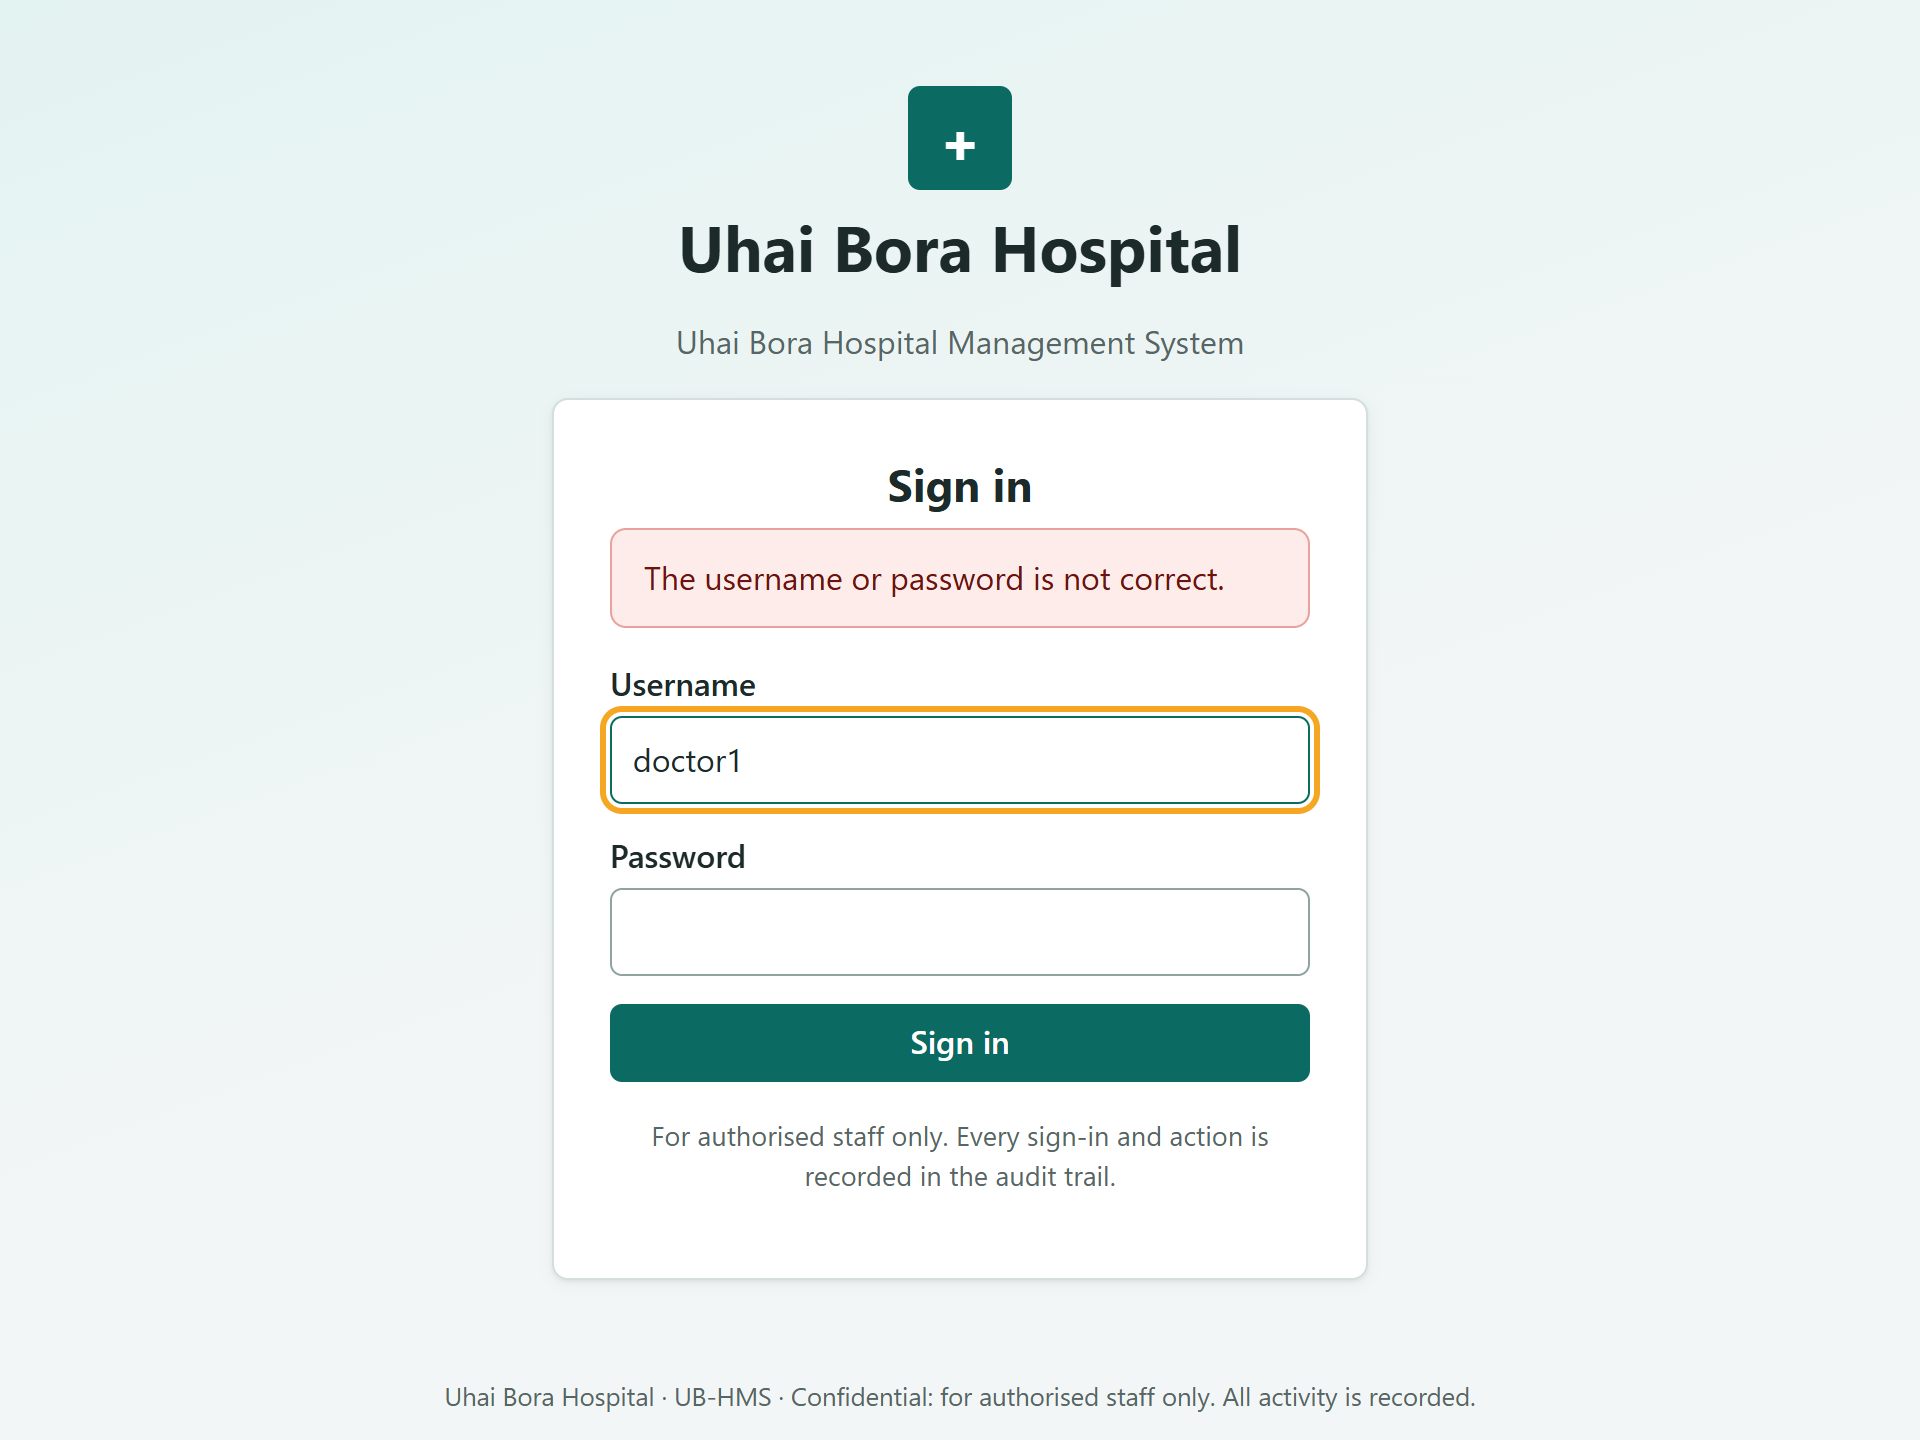
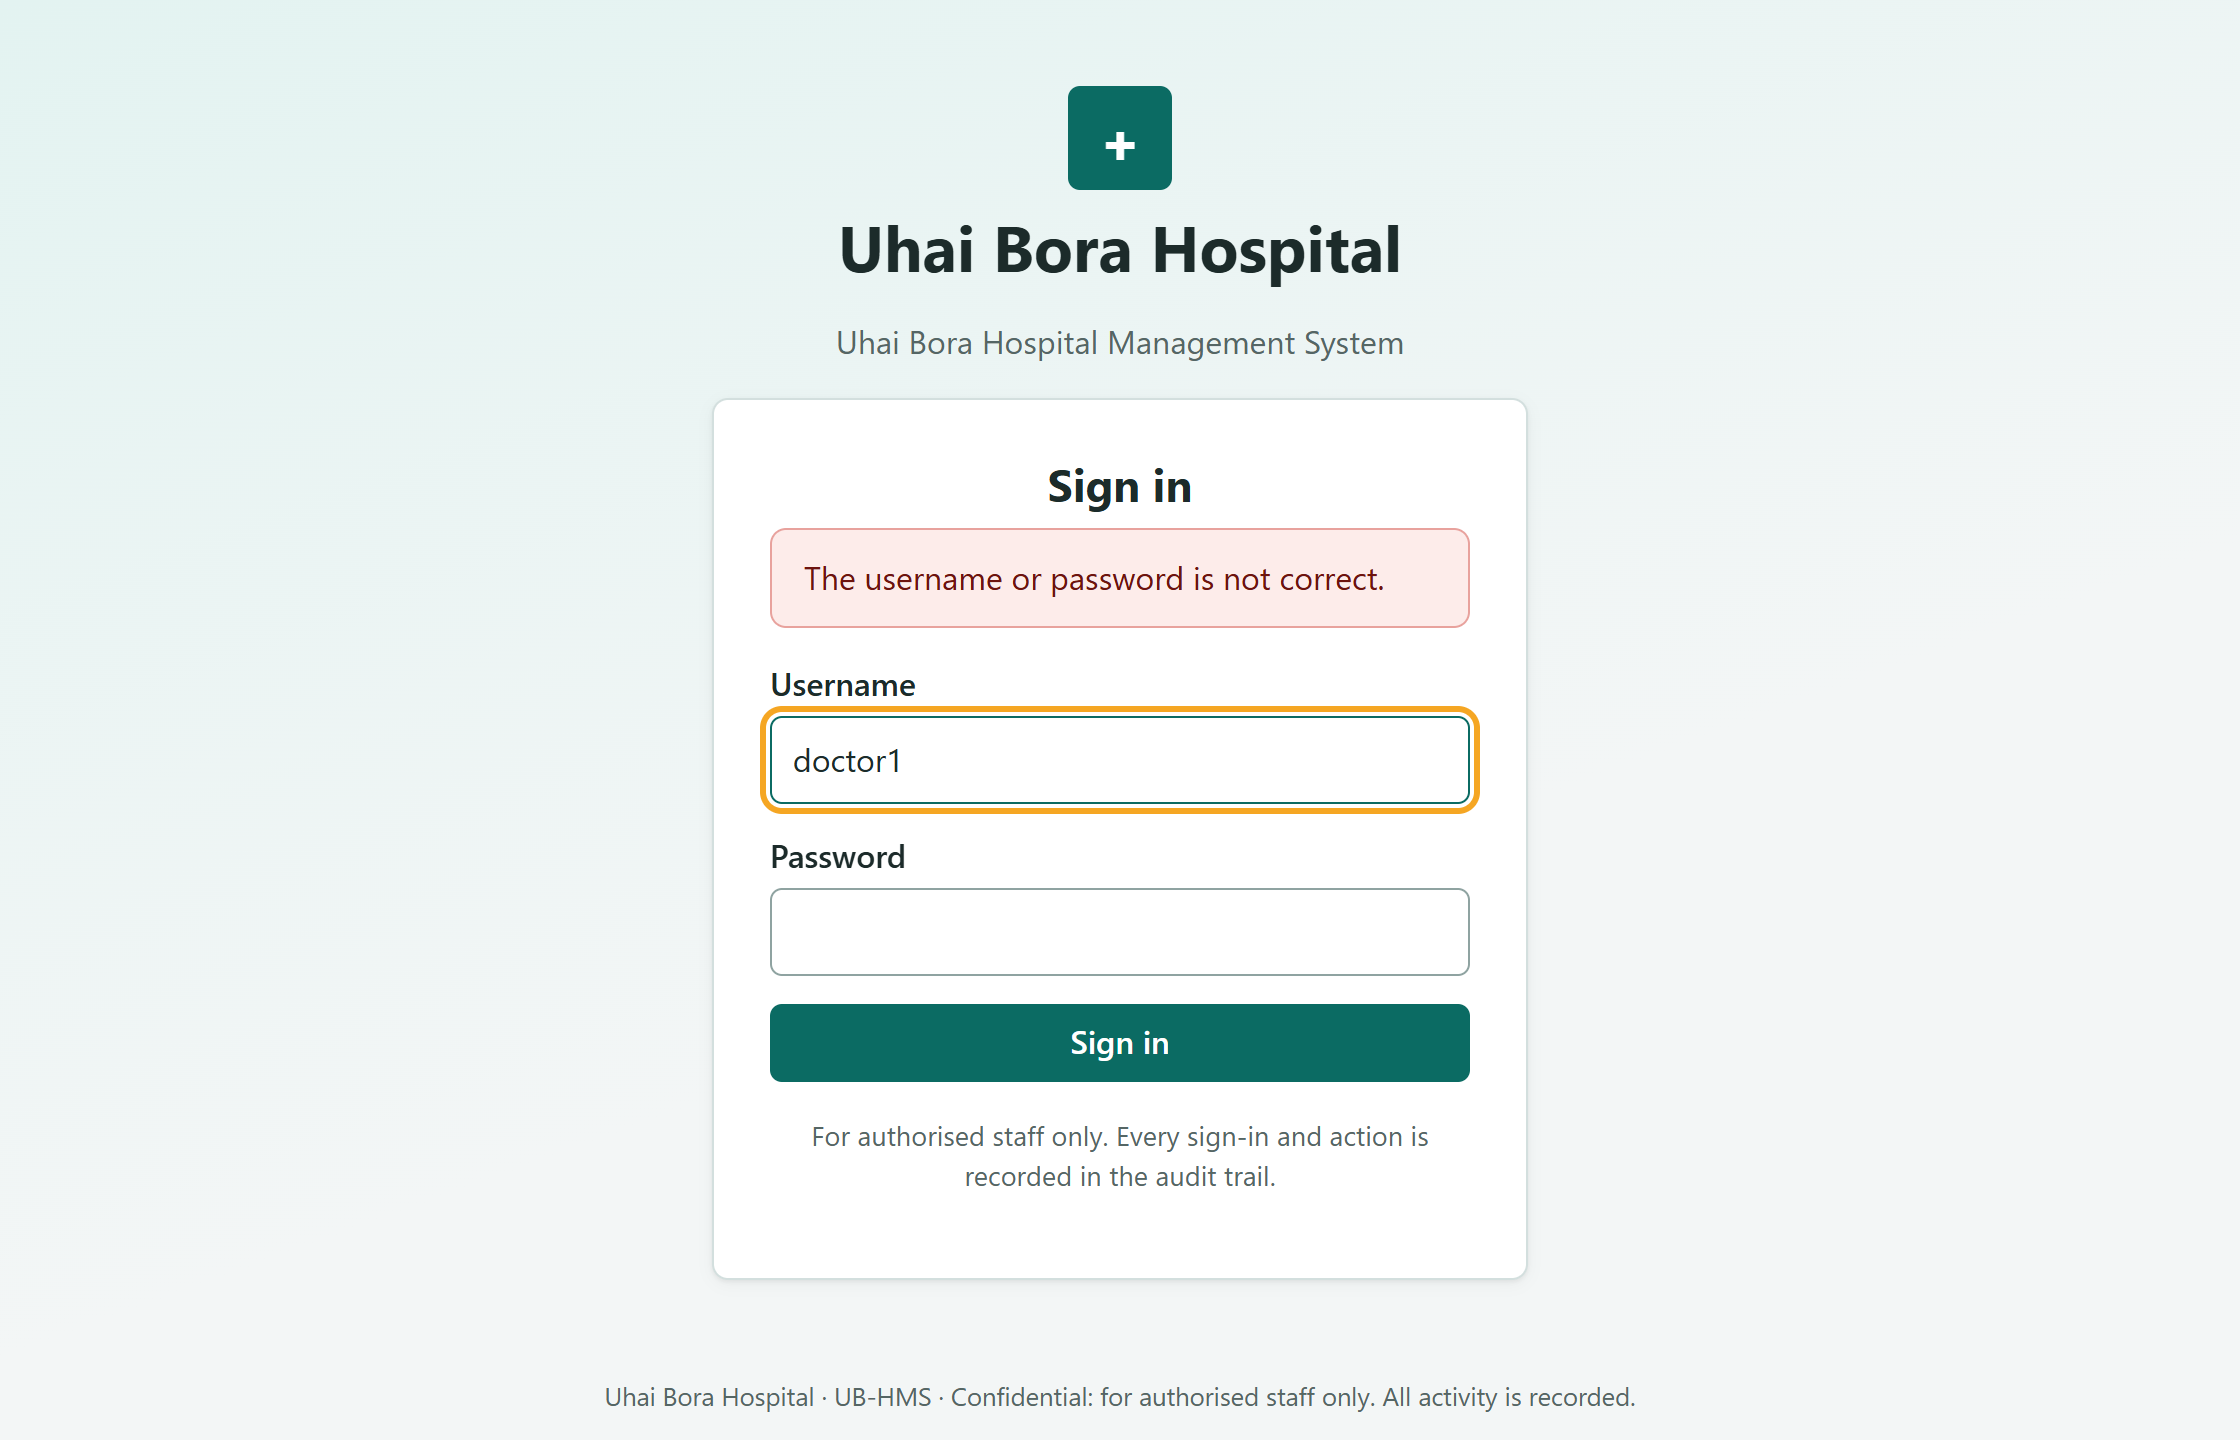
Tidy table layout for narrow screens and add documentation screenshots
Tighter table spacing, non-breaking OP numbers, dates and amounts, wrapping user action buttons.
Screenshot script retaken: 56 screenshots of every role against synthetic demo data.

diff --git a/assets/css/app.css b/assets/css/app.css
@@ -99,11 +99,12 @@ a:hover { color: var(--brand-dark); }
 /* Tables */
 .table-wrap { overflow-x: auto; background: var(--white); border: 1px solid var(--line); border-radius: var(--radius); box-shadow: var(--shadow); margin-bottom: 1rem; }
 table.data { width: 100%; border-collapse: collapse; }
-table.data th, table.data td { padding: .6rem .8rem; text-align: left; border-bottom: 1px solid var(--line); vertical-align: top; }
-table.data th { background: #eaf1f0; font-size: .85rem; text-transform: uppercase; letter-spacing: .03em; color: var(--brand-dark); white-space: nowrap; }
+table.data th, table.data td { padding: .5rem .6rem; text-align: left; border-bottom: 1px solid var(--line); vertical-align: top; }
+table.data td { font-size: .92rem; }
+table.data th { background: #eaf1f0; font-size: .8rem; text-transform: uppercase; letter-spacing: .02em; color: var(--brand-dark); white-space: nowrap; }
 table.data tbody tr:hover { background: #f8fbfb; }
 table.data tfoot td { font-weight: 700; background: #f1f6f6; }
-table.data td.num, table.data th.num { text-align: right; font-variant-numeric: tabular-nums; }
+table.data td.num, table.data th.num { white-space: nowrap; text-align: right; font-variant-numeric: tabular-nums; }
 .empty { padding: 1.5rem; text-align: center; color: var(--muted); }
 
 /* Forms */
@@ -151,7 +152,7 @@ dl.kv { display: grid; grid-template-columns: max-content 1fr; gap: .35rem 1.25r
 dl.kv dt { color: var(--muted); font-weight: 600; }
 dl.kv dd { margin: 0; }
 .record-head { display: flex; flex-wrap: wrap; align-items: baseline; gap: .5rem 1rem; }
-.op-number { font-family: Consolas, "Courier New", monospace; background: var(--brand-light); color: var(--brand-dark); padding: .1rem .5rem; border-radius: 4px; font-weight: 700; }
+.op-number { white-space: nowrap; font-family: Consolas, "Courier New", monospace; background: var(--brand-light); color: var(--brand-dark); padding: .1rem .5rem; border-radius: 4px; font-weight: 700; }
 .allergy { background: var(--danger-bg); border: 1px solid #e8a29d; color: #6d130e; padding: .5rem .75rem; border-radius: var(--radius); margin-bottom: 1rem; }
 .timeline { list-style: none; margin: 0; padding: 0; }
 .timeline li { border-left: 3px solid var(--brand); padding: .15rem 0 .85rem 1rem; position: relative; }

diff --git a/docs/build/take_screenshots.py b/docs/build/take_screenshots.py
@@ -44,7 +44,7 @@ class Shooter:
         self.n = 0
         self.log = []
 
-    def context(self, width=960, height=720, mobile=False):
+    def context(self, width=1120, height=720, mobile=False):
         return self.browser.new_context(viewport={'width': width, 'height': height}, device_scale_factor=2, locale='en-GB',
                                         timezone_id='Africa/Nairobi', is_mobile=mobile)
 
@@ -68,7 +68,7 @@ class Shooter:
         page.goto(BASE + '/login.php')
         page.fill('#username', user)
         page.fill('#password', pw)
-        page.click('button[type=submit]')
+        page.click('#main button[type=submit]')
         page.wait_for_load_state('networkidle')
 
 
@@ -108,12 +108,12 @@ def main():
                 pg.fill('#f_current_password', ADMIN_PW_OLD)
                 pg.fill('#f_new_password', 'weak')
                 pg.fill('#f_confirm_password', 'weak')
-                pg.click('button[type=submit]')
+                pg.click('#main button[type=submit]')
                 s.shot(pg, '04-password-weak')
                 pg.fill('#f_current_password', ADMIN_PW_OLD)
                 pg.fill('#f_new_password', ADMIN_PW_NEW)
                 pg.fill('#f_confirm_password', ADMIN_PW_NEW)
-                pg.click('button[type=submit]')
+                pg.click('#main button[type=submit]')
                 pg.wait_for_load_state('networkidle')
             else:
                 s.login(pg, ADMIN_USER, ADMIN_PW_NEW)
@@ -132,7 +132,7 @@ def main():
             s.shot(pg, '11-reception-dashboard', full=True)
             pg.goto(BASE + '/patients/index.php?q=' + info['patient_last']); s.shot(pg, '12-patient-search', full=True, max_height=1000)
             pg.goto(BASE + '/patients/register.php'); s.shot(pg, '13-patient-register', full=True)
-            pg.click('button[type=submit]'); pg.wait_for_load_state('networkidle'); s.shot(pg, '14-patient-register-errors', full=True, max_height=1500)
+            pg.click('#main button[type=submit]'); pg.wait_for_load_state('networkidle'); s.shot(pg, '14-patient-register-errors', full=True, max_height=1500)
             pg.goto(BASE + '/patients/view.php?id=' + str(info['patient_id'])); s.shot(pg, '15-patient-record-reception', full=True, max_height=1500)
             pg.goto(BASE + '/appointments/index.php?date=' + date.today().isoformat() + '&doctor_id='); s.shot(pg, '16-appointment-diary', full=True, max_height=1400)
             pg.goto(BASE + f'/appointments/book.php?patient_id={info["patient_id"]}&doctor_id={info["doctor1"]}&date={next_workday(1)}'); s.shot(pg, '17-book-appointment', full=True, max_height=1700)
@@ -150,7 +150,7 @@ def main():
             pg.goto(BASE + '/visits/queue.php?stage=triage'); s.shot(pg, '23-triage-queue', full=True, max_height=1100)
             pg.goto(BASE + '/visits/triage.php?visit=' + str(info['triage_visit']))
             pg.fill('#f_temperature', '60'); pg.fill('#f_pulse', '5')
-            pg.click('form[method=post] button[type=submit]'); pg.wait_for_load_state('networkidle')
+            pg.click('#main form[method=post] button[type=submit]'); pg.wait_for_load_state('networkidle')
             s.shot(pg, '24-triage-errors', full=True, max_height=1500)
             pg.goto(BASE + '/visits/triage.php?visit=' + str(info['triage_visit'])); s.shot(pg, '25-triage-form', full=True, max_height=1500)
             ctx.close()
@@ -164,7 +164,7 @@ def main():
             pg.goto(BASE + '/visits/consult.php?visit=' + str(info['orders_visit'])); s.shot(pg, '28-consult-top', full=True, max_height=1500)
             pg.evaluate("document.querySelector('.card h2').scrollIntoView()")
             h = pg.evaluate("[...document.querySelectorAll('h2')].find(e => e.textContent.trim() === 'Laboratory tests').getBoundingClientRect().top + window.scrollY")
-            pg.evaluate(f'window.scrollTo(0, {h - 20})'); s.shot(pg, '29-consult-orders')
+            pg.evaluate(f'window.scrollTo(0, {h - 80})'); s.shot(pg, '29-consult-orders')
             pg.goto(BASE + '/patients/view.php?id=' + str(info['patient_id'])); s.shot(pg, '30-patient-record-doctor', full=True, max_height=1700)
             pg.goto(BASE + '/lab/results.php'); s.shot(pg, '31-my-test-results', full=True, max_height=1400)
             pg.goto(BASE + '/visits/consult.php?visit=' + str(info['result_visit'])); s.shot(pg, '32-consult-with-result', full=True, max_height=2200)
@@ -211,7 +211,7 @@ def main():
             ctx.close()
 
             # ---------- manager ----------
-            ctx = s.context()
+            ctx = s.context(width=1280)
             pg = ctx.new_page()
             s.login(pg, 'manager1', DEMO_PW)
             s.shot(pg, '50-manager-dashboard', full=True, max_height=1800)

diff --git a/reports/attendance.php b/reports/attendance.php
@@ -33,7 +33,7 @@ page_start('Attendance report', 'r-attendance');
     <tbody>
     <?php foreach ($r['days'] as $d): ?>
         <?php if ($d['booked'] + $d['attended'] + $d['missed'] + $d['cancelled'] + $d['visits'] + $d['new_patients'] === 0) { continue; } ?>
-        <tr><td><?= e(fmt_date($d['date'])) ?></td><td class="num"><?= $d['booked'] ?></td><td class="num"><?= $d['attended'] ?></td><td class="num"><?= $d['missed'] ?></td><td class="num"><?= $d['cancelled'] ?></td><td class="num"><?= $d['walkins'] ?></td><td class="num"><?= $d['visits'] ?></td><td class="num"><?= $d['new_patients'] ?></td></tr>
+        <tr><td class="nowrap"><?= e(fmt_date($d['date'])) ?></td><td class="num"><?= $d['booked'] ?></td><td class="num"><?= $d['attended'] ?></td><td class="num"><?= $d['missed'] ?></td><td class="num"><?= $d['cancelled'] ?></td><td class="num"><?= $d['walkins'] ?></td><td class="num"><?= $d['visits'] ?></td><td class="num"><?= $d['new_patients'] ?></td></tr>
     <?php endforeach; ?>
     </tbody>
     <tfoot><tr><td>Total</td><td class="num"><?= $r['totals']['booked'] ?></td><td class="num"><?= $r['totals']['attended'] ?></td><td class="num"><?= $r['totals']['missed'] ?></td><td class="num"><?= $r['totals']['cancelled'] ?></td><td class="num"><?= $r['totals']['walkins'] ?></td><td class="num"><?= $r['totals']['visits'] ?></td><td class="num"><?= $r['totals']['new_patients'] ?></td></tr></tfoot>

diff --git a/reports/stock.php b/reports/stock.php
@@ -30,7 +30,7 @@ page_start('Stock report', 'r-stock');
     <tbody>
     <?php foreach ($r['rows'] as $m): ?>
         <tr><td><?= e(medicine_label($m)) ?></td><td class="num"><?= $m['on_hand'] ?></td><td class="num"><?= (int) $m['reorder_level'] ?></td><td><?= badge($m['status']) ?></td>
-            <td><?= $m['next_expiry'] ? e(fmt_date($m['next_expiry'])) : '' ?></td><td class="num"><?= $m['expired_qty'] ?></td>
+            <td class="nowrap"><?= $m['next_expiry'] ? e(fmt_date($m['next_expiry'])) : '' ?></td><td class="num"><?= $m['expired_qty'] ?></td>
             <td class="num"><?= $m['received'] ?></td><td class="num"><?= $m['dispensed'] ?></td><td class="num"><?= ($m['adjusted'] > 0 ? '+' : '') . $m['adjusted'] ?></td><td class="num"><?= e(fmt_money($m['value'])) ?></td></tr>
     <?php endforeach; ?>
     <?php if (!$r['rows']): ?><tr><td colspan="10" class="empty">No medicines on the list.</td></tr><?php endif; ?>

diff --git a/admin/users.php b/admin/users.php
@@ -56,7 +56,7 @@ page_start('User accounts', 'users');
             <td><?= e($u['role_name']) ?></td>
             <td><?= (int) $u['is_active'] ? badge($u['is_locked'] ? 'Locked' : 'Active') : badge('Inactive') ?></td>
             <td><?= $u['last_login_at'] ? e(fmt_datetime($u['last_login_at'])) : '<span class="muted">Never</span>' ?></td>
-            <td class="nowrap">
+            <td>
                 <a class="btn btn-small btn-secondary" href="<?= e(url('admin/user.php', ['id' => $u['id']])) ?>">Edit</a>
                 <?php if ($u['is_locked']): ?>
                     <?= form_open('admin/users.php', 'inline') ?><input type="hidden" name="id" value="<?= (int) $u['id'] ?>"><input type="hidden" name="action" value="unlock"><button class="btn btn-small" type="submit">Unlock</button></form>

diff --git a/reports/revenue.php b/reports/revenue.php
@@ -53,7 +53,7 @@ page_start('Revenue report', 'r-revenue');
     <tbody>
     <?php foreach ($r['days'] as $d): ?>
         <?php if (to_cents($d['billed']) === 0 && to_cents($d['collected']) === 0) { continue; } ?>
-        <tr><td><?= e(fmt_date($d['date'])) ?></td><td class="num"><?= e(fmt_money($d['billed'])) ?></td><td class="num"><?= e(fmt_money($d['collected'])) ?></td><td class="num"><?= (int) $d['payments'] ?></td></tr>
+        <tr><td class="nowrap"><?= e(fmt_date($d['date'])) ?></td><td class="num"><?= e(fmt_money($d['billed'])) ?></td><td class="num"><?= e(fmt_money($d['collected'])) ?></td><td class="num"><?= (int) $d['payments'] ?></td></tr>
     <?php endforeach; ?>
     </tbody>
 </table>
